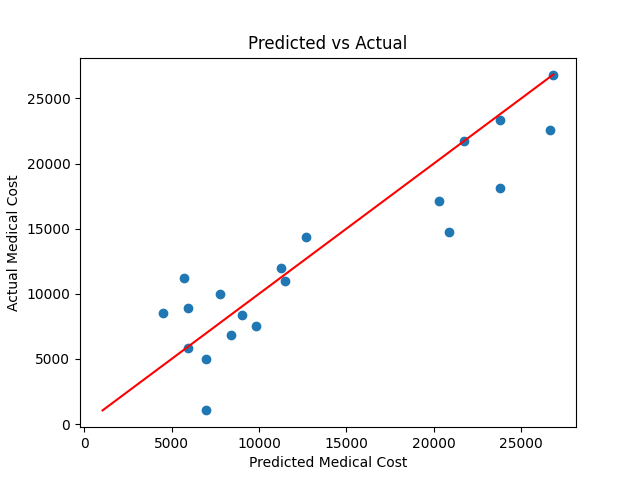
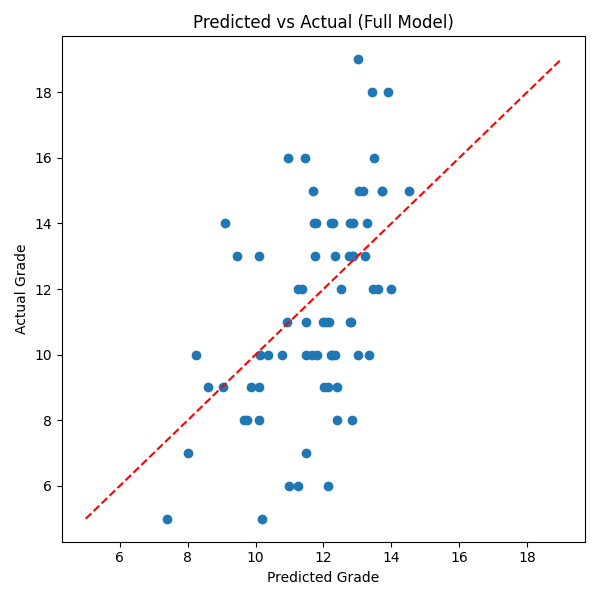
Completed mini-project

diff --git a/assignments_02/project_02.py b/assignments_02/project_02.py
@@ -219,3 +219,108 @@ for name, coef in zip(feature_cols, model.coef_):
 # to the model.
 
 #Task 6: Evaluate and Summarize
+plt.figure(figsize=(6, 6))
+
+plt.scatter(y_test_pred, y_test)
+
+# Diagonal reference line (perfect predictions)
+min_val = min(y_test.min(), y_test_pred.min())
+max_val = max(y_test.max(), y_test_pred.max())
+plt.plot([min_val, max_val], [min_val, max_val], "r--")
+
+plt.title("Predicted vs Actual (Full Model)")
+plt.xlabel("Predicted Grade")
+plt.ylabel("Actual Grade")
+
+plt.tight_layout()
+plt.savefig("outputs/predicted_vs_actual.png")
+plt.show()
+plt.close()
+
+# The model appears to struggle more at the low and high ends of the grade
+# range. Most predictions are concentrated around the middle (roughly 10-14),
+# while the actual grades vary much more. This suggests the model tends to
+# underestimate higher grades and overestimate lower grades. Points above the
+# diagonal represent students whose actual grades were higher than predicted
+# (underestimation), while points below the diagonal represent students whose
+# actual grades were lower than predicted (overestimation).
+
+
+# The filtered dataset contains 357 students, and the test set contains
+# 72 students.
+#
+# The full model achieved an RMSE of 2.664 and an R² of 0.263. This means
+# the model's predictions are typically within about 2.7 grade points of
+# the actual grade on a 0–20 scale. The model explains about 26% of the
+# variation in students' final math grades.
+#
+# The largest positive coefficient is internet (+1.037), suggesting that
+# students with internet access tend to have higher predicted grades. The
+# largest negative coefficient is schoolsup (-2.263), suggesting that
+# students receiving extra school support tend to have lower predicted
+# grades. This likely reflects that students receiving extra support were
+# already struggling academically.
+#
+# One surprising result was the negative coefficient for schoolsup. I
+# expected school support to have a positive relationship with final
+# grades. A likely explanation is that this feature identifies students
+# who were already at greater academic risk rather than measuring the
+# effectiveness of the support itself.
+
+
+
+# Neglected Feature: The Power of G1
+# Add G1 to the full model
+
+feature_cols = [
+    "age",
+    "Medu",
+    "Fedu",
+    "traveltime",
+    "studytime",
+    "failures",
+    "absences",
+    "freetime",
+    "goout",
+    "Walc",
+    "schoolsup",
+    "internet",
+    "higher",
+    "activities",
+    "sex",
+    "G1"
+]
+
+X = df_filtered[feature_cols]
+y = df_filtered["G3"]
+
+# Split the data
+X_train, X_test, y_train, y_test = train_test_split(
+    X, y, test_size=0.2, random_state=42
+)
+
+# Train the model
+model = LinearRegression()
+model.fit(X_train, y_train)
+
+# Make predictions
+y_test_pred = model.predict(X_test)
+
+# Evaluate the model
+test_r2 = r2_score(y_test, y_test_pred)
+
+print("Test R² with G1:", round(test_r2, 3))
+
+# Adding G1 increased the test R² from 0.263 to 0.765, meaning the model
+# explains about 77% of the variation in final grades. However, this does
+# not mean that G1 causes G3. Instead, G1 is an earlier measure of a
+# student's academic performance, so it is naturally a strong predictor
+# of the final grade.
+#
+# This model could be useful for identifying students who may struggle
+# later in the course because a low first-period grade is often associated
+# with a lower final grade. However, educators cannot use G1 to intervene
+# before the first grading period. To identify at-risk students earlier,
+# they would need to rely on other information available at the beginning
+# of the course, such as previous failures, study habits, attendance,
+# family background, or other early indicators.
